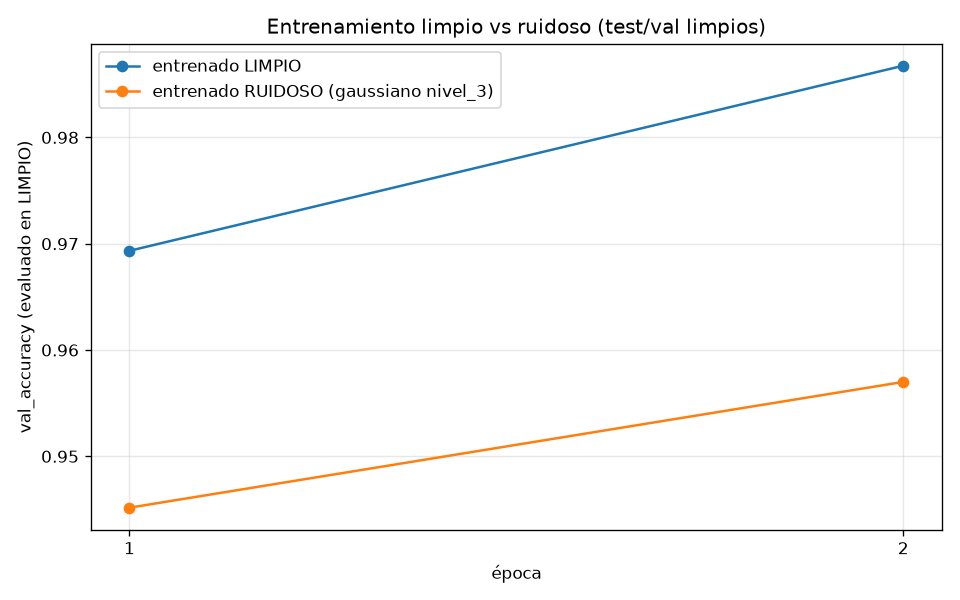
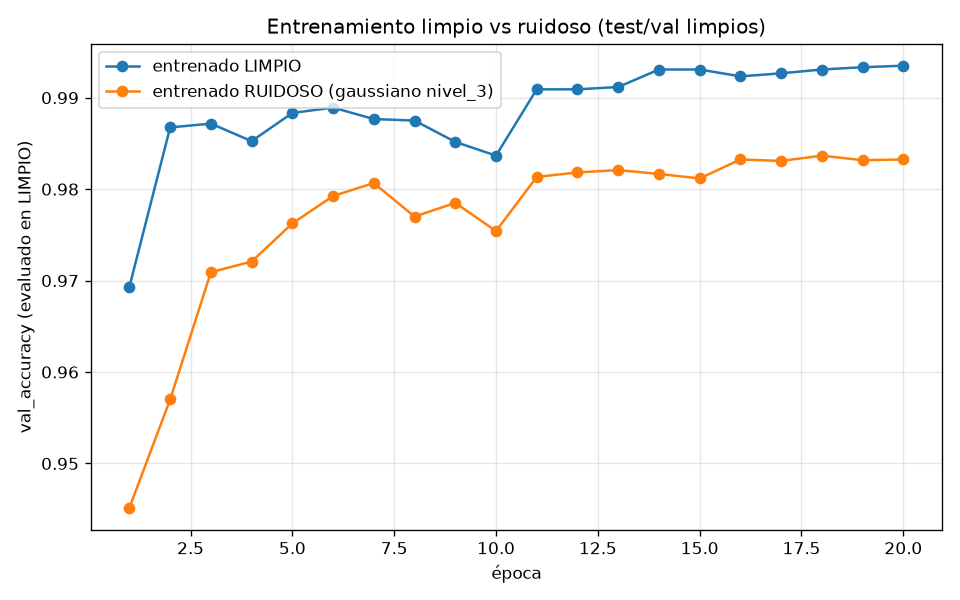
entrenamiento acumulable con ruido

diff --git a/tests/test_scheduler.py b/tests/test_scheduler.py
@@ -1,0 +1,89 @@
+"""Tests del LR scheduler y de la carga de pesos por posición (datos sintéticos, sin MNIST)."""
+import pytest
+
+torch = pytest.importorskip("torch")
+
+from torch.utils.data import DataLoader, TensorDataset
+
+from nnist.models import build_model
+from nnist.training import ModelCheckpoint, TrainConfig, Trainer
+
+
+def _loader(n=64, seed=0):
+    g = torch.Generator().manual_seed(seed)
+    x = torch.randn(n, 1, 8, 8, generator=g)
+    y = torch.randint(0, 3, (n,), generator=g)
+    return DataLoader(TensorDataset(x, y), batch_size=16, shuffle=True)
+
+
+def test_cosine_scheduler_decays_lr():
+    m = build_model("mlp", input_shape=(1, 8, 8), num_classes=3, hidden=[16])
+    cfg = TrainConfig(epochs=4, lr=0.01, scheduler="cosine", scheduler_params={"t_max": 4})
+    t = Trainer(m, cfg)
+    t.fit(_loader(), _loader(seed=1))
+    lrs = t.history["lr"]
+    assert len(lrs) == 4
+    assert lrs[0] > lrs[-1]                       # el lr baja a lo largo del entrenamiento
+    assert all(a >= b for a, b in zip(lrs, lrs[1:]))  # monótonamente no creciente
+
+
+def test_no_scheduler_keeps_lr_constant():
+    m = build_model("mlp", input_shape=(1, 8, 8), num_classes=3, hidden=[16])
+    t = Trainer(m, TrainConfig(epochs=3, lr=0.005))
+    t.fit(_loader(), _loader(seed=1))
+    assert t.history["lr"] == pytest.approx([0.005, 0.005, 0.005])
+
+
+def test_scheduler_resume_fastforwards_lr(tmp_path):
+    """Al reanudar, el lr del scheduler se sitúa donde tocaría (no reinicia en el lr base)."""
+    ckpt = tmp_path / "checkpoint.pt"
+    cfg = TrainConfig(epochs=2, lr=0.01, scheduler="cosine", scheduler_params={"t_max": 6})
+    m1 = build_model("mlp", input_shape=(1, 8, 8), num_classes=3, hidden=[16])
+    Trainer(m1, cfg, callbacks=[ModelCheckpoint(ckpt, every=1)]).fit(_loader(), _loader(seed=1))
+
+    m2 = build_model("mlp", input_shape=(1, 8, 8), num_classes=3, hidden=[16])
+    cfg2 = TrainConfig(epochs=6, lr=0.01, scheduler="cosine", scheduler_params={"t_max": 6})
+    t2 = Trainer(m2, cfg2)
+    t2.resume_from(ckpt)
+    t2.fit(_loader(), _loader(seed=1))
+    # el historial de lr es continuo (2 previas + 4 nuevas); la 1ª época NUEVA ya viene adelantada
+    assert len(t2.history["lr"]) == 6
+    assert t2.history["lr"][t2.start_epoch] < 0.01
+    assert all(a >= b for a, b in zip(t2.history["lr"], t2.history["lr"][1:]))  # decae
+    assert t2._epochs_done == 6
+
+
+def test_weight_decay_applied_on_resume(tmp_path):
+    """Reanudar con un weight_decay distinto lo aplica (no se queda con el del checkpoint)."""
+    ckpt = tmp_path / "checkpoint.pt"
+    m1 = build_model("mlp", input_shape=(1, 8, 8), num_classes=3, hidden=[16])
+    Trainer(m1, TrainConfig(epochs=1, lr=0.01, weight_decay=0.0),
+            callbacks=[ModelCheckpoint(ckpt, every=1)]).fit(_loader(), _loader(seed=1))
+
+    m2 = build_model("mlp", input_shape=(1, 8, 8), num_classes=3, hidden=[16])
+    t2 = Trainer(m2, TrainConfig(epochs=2, lr=0.01, weight_decay=0.05))
+    t2.resume_from(ckpt)
+    t2.fit(_loader(), _loader(seed=1))
+    assert t2.optimizer.param_groups[0]["weight_decay"] == 0.05
+
+
+def test_resume_by_position_allows_added_dropout(tmp_path):
+    """Un modelo entrenado sin dropout se puede reanudar con dropout (misma cantidad de pesos)."""
+    ckpt = tmp_path / "checkpoint.pt"
+    m1 = build_model("cnn", input_shape=(1, 8, 8), num_classes=3, channels=[8])
+    Trainer(m1, TrainConfig(epochs=1, lr=0.01),
+            callbacks=[ModelCheckpoint(ckpt, every=1)]).fit(_loader(), _loader(seed=1))
+
+    # con dropout la arquitectura desplaza índices -> carga estricta debe fallar
+    m2 = build_model("cnn", input_shape=(1, 8, 8), num_classes=3, channels=[8], dropout=0.3)
+    with pytest.raises(RuntimeError):
+        Trainer(m2, TrainConfig(epochs=2)).resume_from(ckpt, strict_weights=True)
+
+    # por posición sí carga y los pesos entrenados coinciden con los guardados
+    m3 = build_model("cnn", input_shape=(1, 8, 8), num_classes=3, channels=[8], dropout=0.3)
+    t3 = Trainer(m3, TrainConfig(epochs=2, lr=0.01))
+    t3.resume_from(ckpt, strict_weights=False)
+    assert t3.start_epoch == 1
+    saved = list(torch.load(ckpt, weights_only=False)["model_state"].values())
+    for cur, old in zip(m3.state_dict().values(), saved):
+        assert torch.allclose(cur, old)

diff --git a/src/nnist/training/trainer.py b/src/nnist/training/trainer.py
@@ -12,7 +12,7 @@ restaura el estado del RNG, así que el orden de barajado tras reanudar puede di
 from __future__ import annotations
 
 import time
-from dataclasses import asdict, dataclass
+from dataclasses import asdict, dataclass, field
 
 import torch
 import torch.nn as nn
@@ -24,7 +24,9 @@ class TrainConfig:
     lr: float = 1e-3
     batch_size: int = 128
     optimizer: str = "adam"
-    weight_decay: float = 0.0
+    weight_decay: float = 0.0                 # regularización L2 (0 = desactivada)
+    scheduler: str = "none"                   # "none" | "cosine" | "step" | "plateau"
+    scheduler_params: dict = field(default_factory=dict)  # p.ej. {"t_max":20} / {"step_size":5,"gamma":0.1}
     device: str = "cpu"
 
 
@@ -37,6 +39,44 @@ def _make_optimizer(name: str, params, lr: float, weight_decay: float):
     raise ValueError(f"Optimizador desconocido: {name!r}")
 
 
+def _make_scheduler(name: str, optimizer, total_epochs: int, params: dict | None):
+    """Crea un LR scheduler por nombre (None si no hay). Baja el lr a lo largo del entrenamiento
+    para que el paso sea grande al principio (rápido) y pequeño al final (se asienta sin oscilar)."""
+    name = (name or "none").lower()
+    if name in ("none", ""):
+        return None
+    from torch.optim import lr_scheduler as sched
+    p = dict(params or {})
+    if name == "cosine":       # decae suave (curva coseno) de lr hasta eta_min a lo largo de T_max épocas
+        return sched.CosineAnnealingLR(optimizer, T_max=int(p.get("t_max", total_epochs)),
+                                       eta_min=float(p.get("eta_min", 0.0)))
+    if name == "step":         # multiplica el lr por gamma cada step_size épocas (bajadas en escalón)
+        return sched.StepLR(optimizer, step_size=int(p.get("step_size", 5)),
+                            gamma=float(p.get("gamma", 0.1)))
+    if name == "plateau":      # baja el lr solo cuando val_accuracy deja de mejorar (reactivo)
+        return sched.ReduceLROnPlateau(optimizer, mode="max", factor=float(p.get("factor", 0.5)),
+                                       patience=int(p.get("patience", 2)))
+    raise ValueError(f"Scheduler desconocido: {name!r}")
+
+
+def _load_state_by_position(model, old_state: dict) -> None:
+    """Carga `old_state` en `model` emparejando tensores por ORDEN (no por nombre), validando formas.
+    Sirve cuando la arquitectura cambió sin añadir pesos (p.ej. activar dropout renombra
+    `classifier.3` -> `classifier.4`, pero los pesos entrenados son los mismos)."""
+    new_sd = model.state_dict()
+    if len(new_sd) != len(old_state):
+        raise ValueError(
+            f"No se puede cargar por posición: {len(old_state)} tensores en el checkpoint "
+            f"vs {len(new_sd)} en el modelo (¿la arquitectura añadió/quitó pesos?).")
+    remapped = {}
+    for (nk, nv), (ok, ov) in zip(new_sd.items(), old_state.items()):
+        if tuple(nv.shape) != tuple(ov.shape):
+            raise ValueError(f"Forma incompatible al cargar por posición: {nk} {tuple(nv.shape)} "
+                             f"!= {ok} {tuple(ov.shape)}")
+        remapped[nk] = ov
+    model.load_state_dict(remapped)
+
+
 class Trainer:
     def __init__(self, model, train_cfg: TrainConfig, callbacks=None):
         self.model = model
@@ -45,6 +85,7 @@ class Trainer:
         self.device = torch.device(train_cfg.device)
         # estado de entrenamiento (mutado en fit; usado por checkpoint/resume)
         self.optimizer = None
+        self.scheduler = None
         self.history = {"train_loss": [], "val_accuracy": []}
         self.start_epoch = 0          # nº de épocas ya completadas (>0 si se reanuda)
         self._epochs_done = 0
@@ -70,9 +111,13 @@ class Trainer:
         path.parent.mkdir(parents=True, exist_ok=True)
         torch.save(self.state_dict(), path)
 
-    def resume_from(self, path) -> dict:
+    def resume_from(self, path, strict_weights: bool = True) -> dict:
         """Carga un checkpoint: restaura pesos + historial + época, y deja pendiente el estado
-        del optimizador para aplicarlo al crear el optimizador en `fit`."""
+        del optimizador para aplicarlo al crear el optimizador en `fit`.
+
+        `strict_weights=False` permite cargar en un modelo cuya arquitectura cambió SIN añadir
+        pesos (p.ej. activar dropout, que solo desplaza los índices de las capas del `Sequential`):
+        se cargan los tensores por posición si todas las formas coinciden."""
         ckpt = torch.load(path, map_location=self.device)
         meta = ckpt.get("meta", {})
         if meta.get("input_shape") and tuple(meta["input_shape"]) != tuple(self.model.input_shape):
@@ -81,7 +126,10 @@ class Trainer:
         if meta.get("num_classes") and meta["num_classes"] != self.model.num_classes:
             raise ValueError(
                 f"Checkpoint incompatible: num_classes {meta['num_classes']} != {self.model.num_classes}")
-        self.model.load_state_dict(ckpt["model_state"])
+        if strict_weights:
+            self.model.load_state_dict(ckpt["model_state"])
+        else:
+            _load_state_by_position(self.model, ckpt["model_state"])
         self.history = ckpt.get("history", {"train_loss": [], "val_accuracy": []})
         self.start_epoch = ckpt.get("epochs_done", 0)
         self._epochs_done = self.start_epoch
@@ -100,6 +148,24 @@ class Trainer:
         if self._pending_opt_state is not None:      # restaurar momentos de Adam al reanudar
             self.optimizer.load_state_dict(self._pending_opt_state)
             self._pending_opt_state = None
+            # la config es la fuente de verdad: reaplica lr/weight_decay actuales (load_state_dict
+            # del optimizador restaura los del checkpoint, así que un cambio de wd se ignoraría).
+            for g in self.optimizer.param_groups:
+                g["lr"] = self.cfg.lr
+                g["weight_decay"] = self.cfg.weight_decay
+
+        # scheduler opcional. Cosine/step son función determinista de la época: al reanudar se
+        # "adelanta" start_epoch pasos para situar el lr donde toca. Plateau (reactivo) arranca de cero.
+        self.scheduler = _make_scheduler(self.cfg.scheduler, self.optimizer, self.cfg.epochs,
+                                         self.cfg.scheduler_params)
+        is_plateau = self.scheduler.__class__.__name__ == "ReduceLROnPlateau"
+        if self.scheduler is not None and not is_plateau and self.start_epoch > 0:
+            import warnings
+            with warnings.catch_warnings():   # el "step antes de optimizer.step" aquí es intencional
+                warnings.simplefilter("ignore")
+                for _ in range(self.start_epoch):
+                    self.scheduler.step()
+        self.history.setdefault("lr", [])            # back-compat con checkpoints sin esta clave
 
         for epoch in range(self.start_epoch, self.cfg.epochs):
             self.model.train()
@@ -117,10 +183,13 @@ class Trainer:
             val_acc, _, _, _ = self.evaluate(val_loader)
             self.history["train_loss"].append(train_loss)
             self.history["val_accuracy"].append(val_acc)
+            self.history["lr"].append(self.optimizer.param_groups[0]["lr"])  # lr usado en esta época
             self._epochs_done = epoch + 1
             metrics = {"epoch": epoch, "train_loss": train_loss, "val_accuracy": val_acc}
             for cb in self.callbacks:
                 cb.on_epoch_end(self, epoch, metrics)
+            if self.scheduler is not None:           # avanzar el lr para la siguiente época
+                self.scheduler.step(val_acc) if is_plateau else self.scheduler.step()
         return self.history
 
     @torch.no_grad()

diff --git a/scripts/noise_train_compare.py b/scripts/noise_train_compare.py
@@ -36,6 +36,25 @@ class PrintEpoch(Callback):
         print(f"  [{self.tag:<8}] época {epoch + 1}: val_limpio={metrics['val_accuracy']:.4f}", flush=True)
 
 
+class LivePlot(Callback):
+    """Regenera reports/noise_train_compare.png tras CADA época, para ver el avance en vivo.
+
+    Lee las historias en vivo de ambos trainers (limpio y ruidoso), así que la gráfica se
+    actualiza durante ambas fases del entrenamiento. Como el entrenamiento es secuencial
+    (primero limpio, luego ruidoso), durante la fase limpia la curva ruidosa muestra lo ya
+    avanzado y viceversa; ambas longitudes pueden diferir y `plot_history` lo maneja.
+    """
+    def __init__(self, t_clean, t_noisy, tipo, nivel):
+        self.t_clean = t_clean
+        self.t_noisy = t_noisy
+        self.tipo = tipo
+        self.nivel = nivel
+
+    def on_epoch_end(self, trainer, epoch, metrics):
+        plot_history(self.t_clean.history["val_accuracy"],
+                     self.t_noisy.history["val_accuracy"], self.tipo, self.nivel)
+
+
 def _make_trainer(model, cfg, ckpt_path, every, tag) -> Trainer:
     return Trainer(model, cfg, callbacks=[ModelCheckpoint(ckpt_path, every=every), PrintEpoch(tag)])
 
@@ -50,6 +69,10 @@ def main() -> None:
     ap.add_argument("--nivel", default="nivel_3")
     ap.add_argument("--checkpoint-every", type=int, default=1)
     ap.add_argument("--resume", action="store_true", help="reanudar desde los checkpoints existentes")
+    ap.add_argument("--weight-decay", type=float, default=0.0, help="regularización L2 (Adam)")
+    ap.add_argument("--dropout", type=float, default=0.0, help="dropout en la cabeza densa de la CNN")
+    ap.add_argument("--scheduler", default="none", help="none | cosine | step | plateau")
+    ap.add_argument("--t-max", type=int, default=None, help="T_max de cosine (por defecto = --epochs)")
     args = ap.parse_args()
     try:
         sys.stdout.reconfigure(encoding="utf-8")
@@ -69,18 +92,32 @@ def main() -> None:
     val_ld = DataLoader(clean.val, batch_size=args.batch)       # VAL limpio
     test_ld = DataLoader(clean.test, batch_size=args.batch)     # TEST limpio
 
-    cfg = TrainConfig(epochs=args.epochs, lr=args.lr, batch_size=args.batch)
-    set_seed(args.seed); m_clean = build_model("cnn", input_shape=input_shape, num_classes=10, channels=channels)
-    set_seed(args.seed); m_noisy = build_model("cnn", input_shape=input_shape, num_classes=10, channels=channels)
+    sched_params = {"t_max": args.t_max} if (args.scheduler == "cosine" and args.t_max) else {}
+    cfg = TrainConfig(epochs=args.epochs, lr=args.lr, batch_size=args.batch,
+                      weight_decay=args.weight_decay, scheduler=args.scheduler,
+                      scheduler_params=sched_params)
+    mk = lambda: build_model("cnn", input_shape=input_shape, num_classes=10,
+                             channels=channels, dropout=args.dropout)
+    set_seed(args.seed); m_clean = mk()
+    set_seed(args.seed); m_noisy = mk()
 
     t_clean = _make_trainer(m_clean, cfg, clean_ckpt, args.checkpoint_every, "LIMPIO")
     t_noisy = _make_trainer(m_noisy, cfg, noisy_ckpt, args.checkpoint_every, "RUIDOSO")
 
     if args.resume:
-        c = t_clean.resume_from(clean_ckpt)
-        n = t_noisy.resume_from(noisy_ckpt)
+        # con dropout>0 la arquitectura cambió (Dropout no añade pesos pero desplaza índices):
+        # cargar los pesos ya entrenados por posición (strict_weights=False).
+        strict = args.dropout == 0.0
+        c = t_clean.resume_from(clean_ckpt, strict_weights=strict)
+        n = t_noisy.resume_from(noisy_ckpt, strict_weights=strict)
         print(f"REANUDANDO desde época limpio={c['epochs_done']} / ruidoso={n['epochs_done']} "
-              f"hasta {args.epochs}", flush=True)
+              f"hasta {args.epochs} | wd={args.weight_decay} dropout={args.dropout} "
+              f"scheduler={args.scheduler}", flush=True)
+
+    # actualiza reports/noise_train_compare.png tras cada época (lee ambas historias en vivo)
+    live = LivePlot(t_clean, t_noisy, args.tipo, args.nivel)
+    t_clean.callbacks.append(live)
+    t_noisy.callbacks.append(live)
 
     print(f"Modelo: CNN {channels} | params={m_clean.count_params()['params_total']:,} | "
           f"ruido train: {args.tipo} {args.nivel} | eval: LIMPIO", flush=True)
@@ -118,18 +155,19 @@ def plot_history(hc, hn, tipo, nivel, out="reports/noise_train_compare.png") -> 
     except Exception as e:
         print(f"(sin gráfica: {e})", flush=True)
         return
-    ep = range(1, len(hc) + 1)
     fig, ax = plt.subplots(figsize=(8, 5))
-    ax.plot(ep, hc, "o-", label="entrenado LIMPIO")
-    ax.plot(ep, hn, "o-", label=f"entrenado RUIDOSO ({tipo} {nivel})")
+    ax.plot(range(1, len(hc) + 1), hc, "o-", label="entrenado LIMPIO")
+    ax.plot(range(1, len(hn) + 1), hn, "o-", label=f"entrenado RUIDOSO ({tipo} {nivel})")
     ax.set_xlabel("época"); ax.set_ylabel("val_accuracy (evaluado en LIMPIO)")
     ax.set_title("Entrenamiento limpio vs ruidoso (test/val limpios)")
     ax.grid(True, alpha=0.3); ax.legend()
-    if len(hc) <= 12:
-        ax.set_xticks(list(ep))
+    n = max(len(hc), len(hn))
+    if n <= 12:
+        ax.set_xticks(list(range(1, n + 1)))
     fig.tight_layout()
     Path(out).parent.mkdir(parents=True, exist_ok=True)
     fig.savefig(out, dpi=120)
+    plt.close(fig)   # LivePlot llama esto cada época; cerrar evita acumular figuras en memoria
     print(f"Gráfica: {out}", flush=True)
 
 